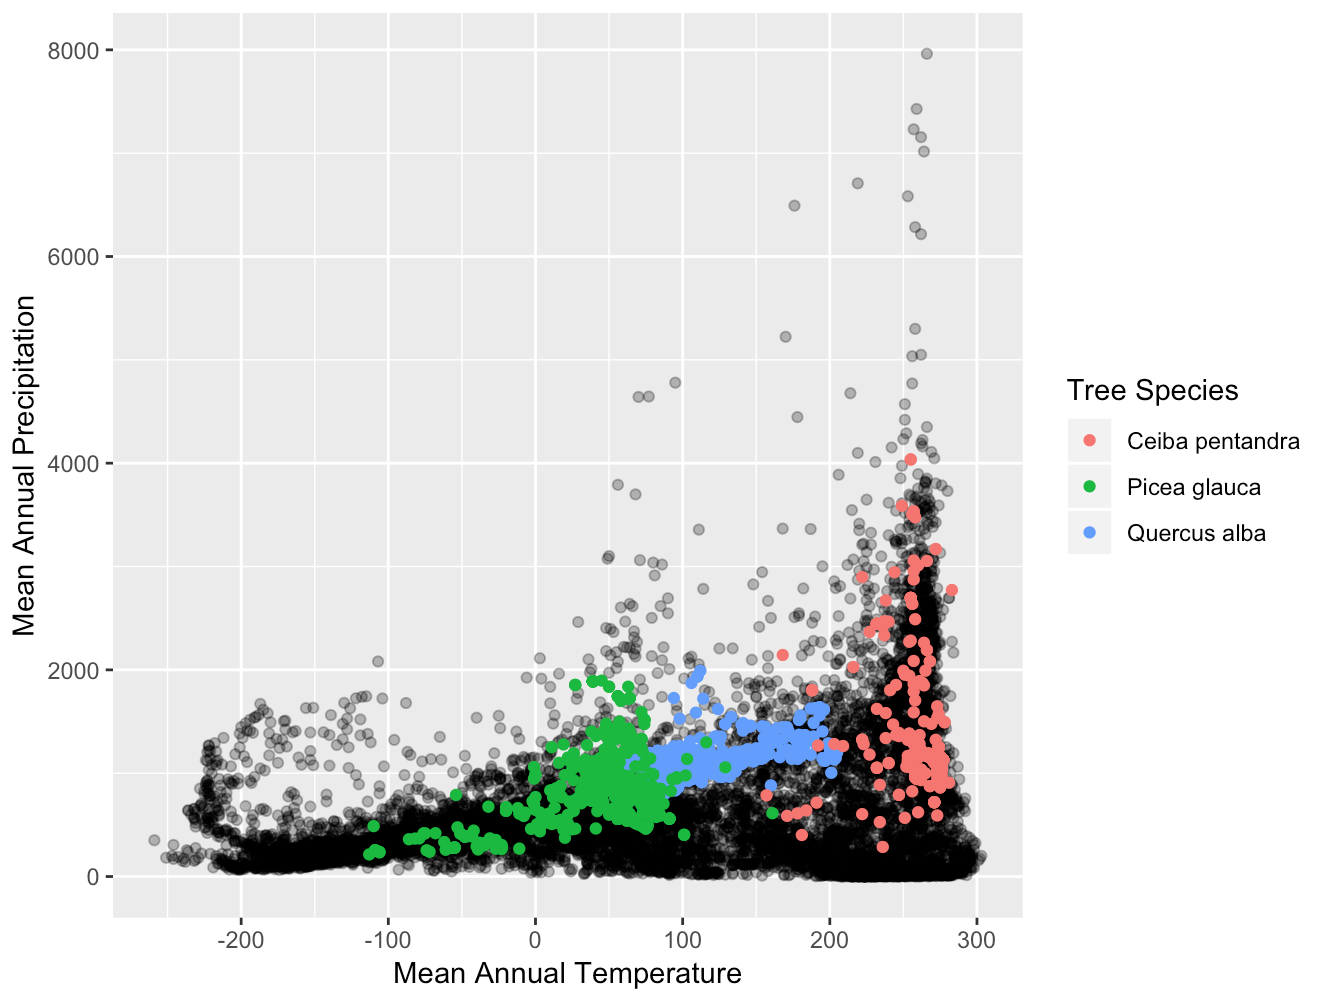
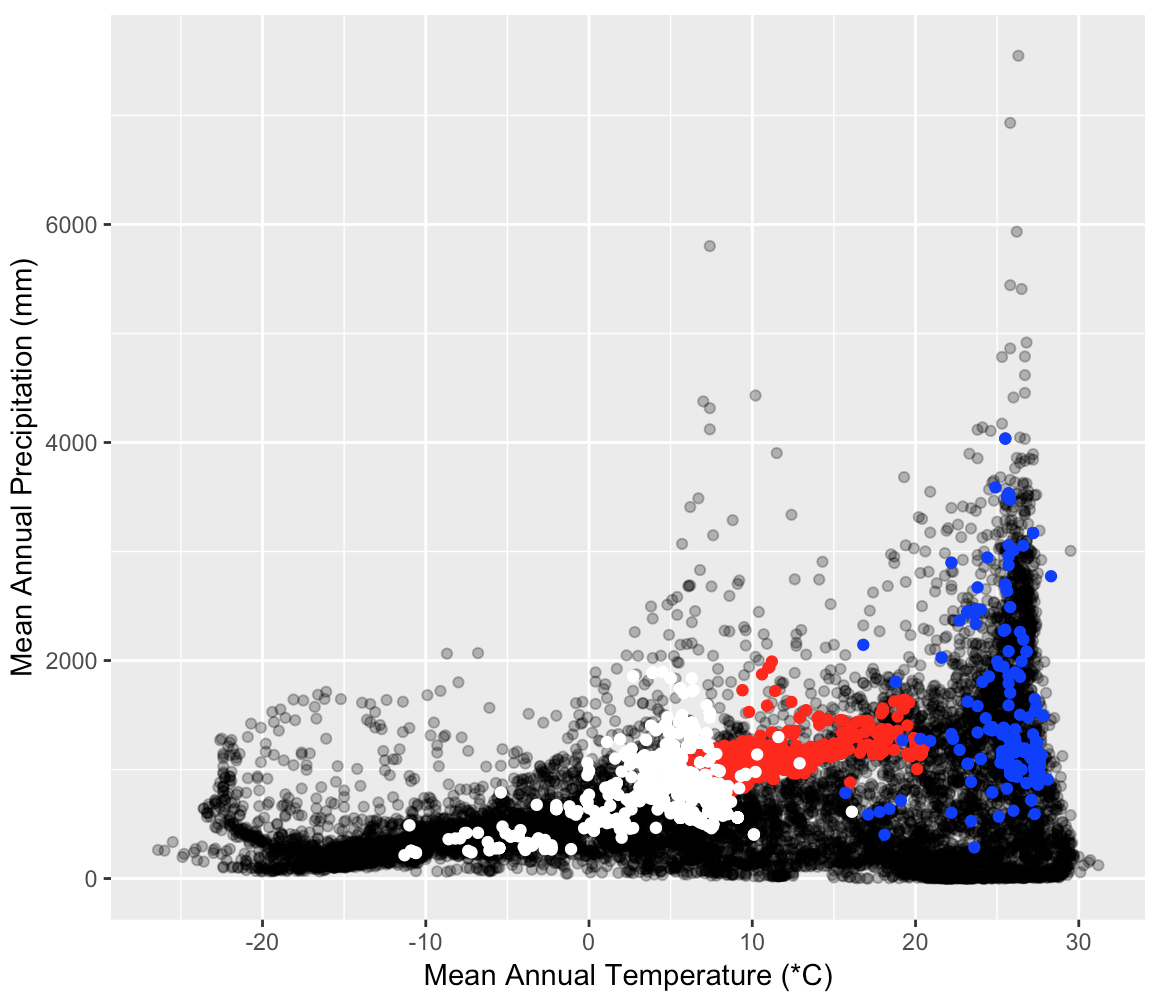
Edits to climate space exercise and solution

diff --git a/exercises/Repro-climate-space.md b/exercises/Repro-climate-space.md
@@ -5,8 +5,8 @@ title: Climate Space
 language: R
 ---
 
-You're interested in determining how much and what part of the available global temperature and precipitation range is occupied by several common tree species. 
+Figuring out how particular factors influence species distribution can be aided by determining which areas of the available climate space they currently occupy. To do so, you're interested in showing how much and what part of the available global temperature and precipitation range is occupied by several common tree species. 
 
-1. Create a scatterplot of global mean annual temperature and mean annual precipitation. Get these data from the [WorldClim dataset](http://worldclim.org/version2) using `getData`, setting the resolution to 10 minutes and the variable to bio. You need only two of the 19 bioclim variables in a single dataframe, and will want to plot a random subset of 10,000 points (see `sample_n`) to limit the time it takes to generate. Choose good labels and make the points transparent to see their density. Why are the climate values so large? 
+1. Create a scatterplot of global mean annual temperature and mean annual precipitation. Get these data from the [WorldClim dataset](http://worldclim.org/version2) using `getData`, setting the resolution to 10 minutes and the variable to bio. You need only two of the 19 bioclim variables in a single dataframe, and will want to plot a random subset of 10,000 points (see `sample_n`) to limit the time it takes to generate. Choose good labels and make the points transparent to see their density. Why are the temperature values so large? Storing decimal values uses more space than integers, so the WorldClim creators provide temperature values multiplied by 10. For example, 19.5 is stored as 195. Display temperature on the plot correctly. See more information about WorldClim units [here](http://www.worldclim.org/formats1). 
 
-2. Plot the temperature-precipitation value for each of 1,000 occurrences onto this climate space for the following species: Quercus alba, Picea glauca, and Ceiba pentandra. Get a dataframe for each of the three species' occurrences from GBIF using `spocc`. Then look up the corresponding climate values for each occurrence. In order to plot the occurrences for all species, they will need to be combined into a single dataframe, with an additional column for species (hint: think about how to name and subset columns of each dataframe before combining). 
+2. Plot the temperature-precipitation value for each of 1,000 occurrences onto this climate space for the following species: *Quercus alba*, *Picea glauca*, and *Ceiba pentandra*. Get a dataframe for each of the three species' occurrences from GBIF using `spocc`, then look up the corresponding climate values for each occurrence. In order to get climate values, the occurrences dataframe must contain only longitude and latitude columns. 
